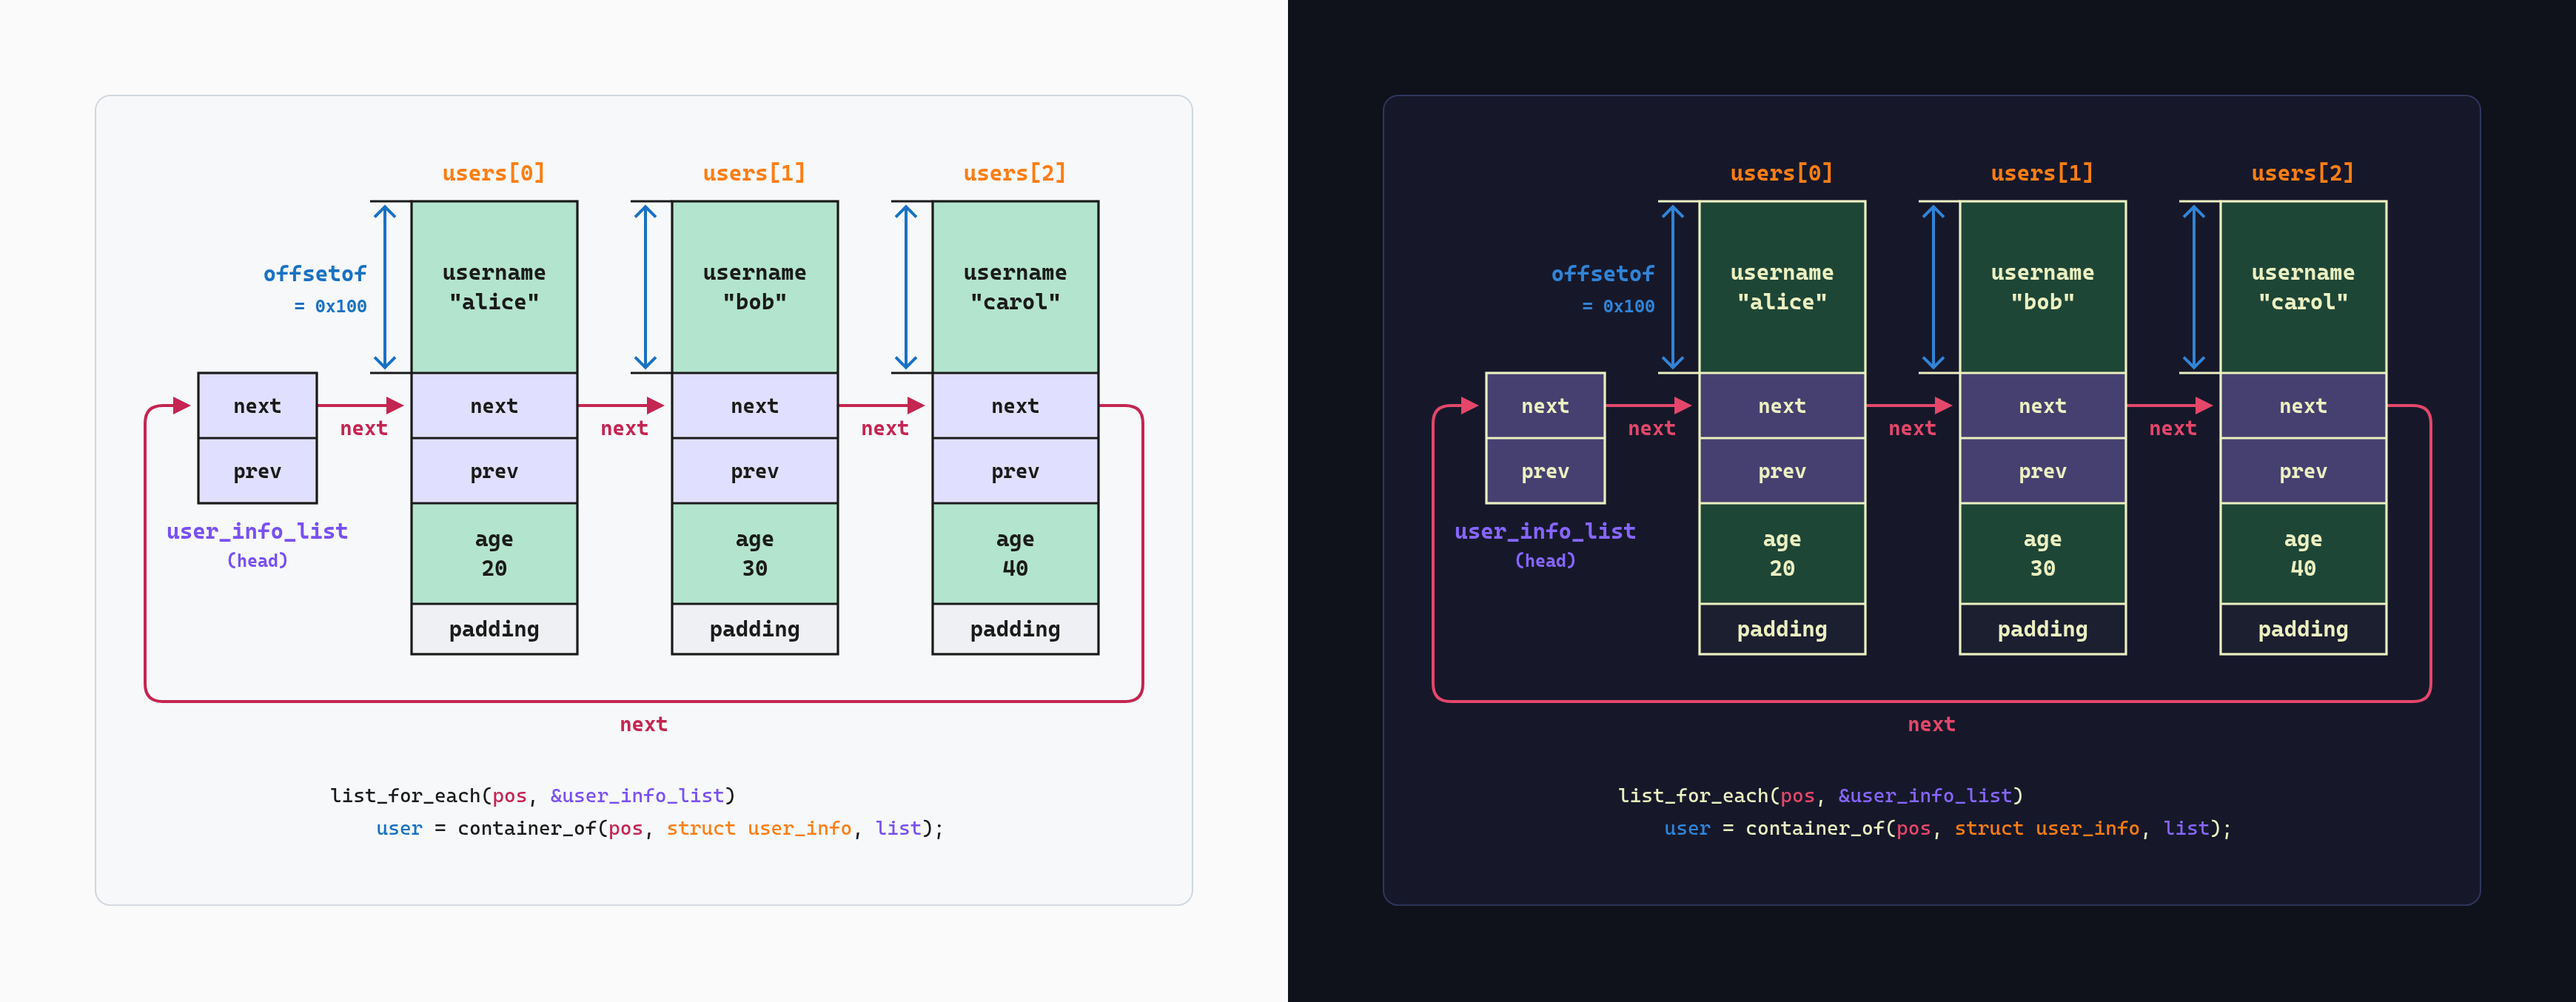
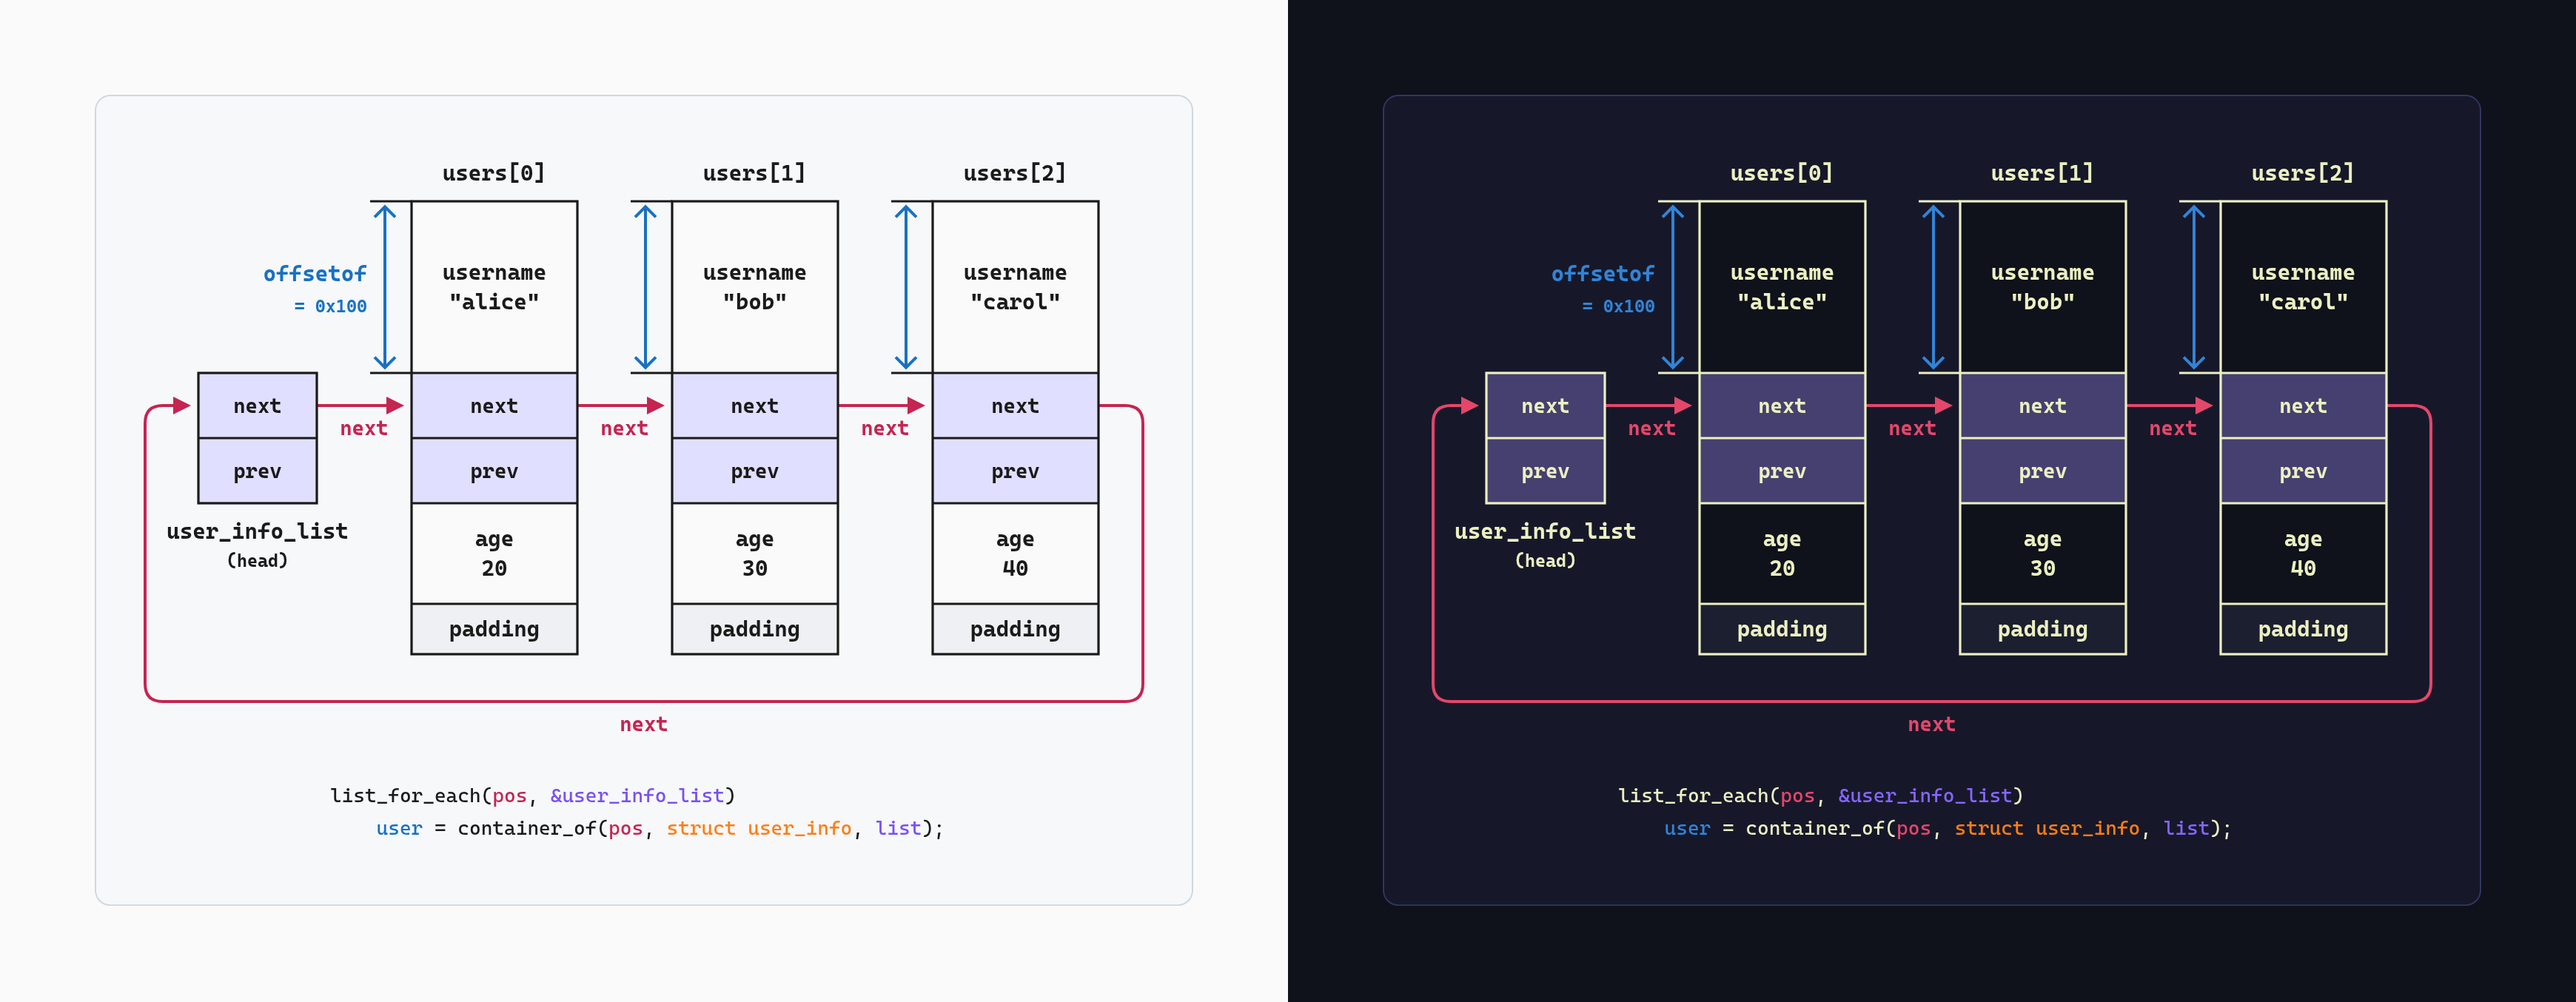
feat: leave struct-chain members unfilled and name the head in ink
Only the link cells, the forward arrows and the offsetof dimension keep
their tones. Other members stay on the background, padding keeps the gap
fill, and the head's name no longer takes the link tone. The example
drops its node tone to match.

diff --git a/src/struct-chain.ts b/src/struct-chain.ts
@@ -203,7 +203,7 @@ export function layout(spec: StructChain, profile: Profile = PROFILES.blog): Sce
     const left = sx(left0), center = left + box / 2;
     rows.forEach((row, i) => {
       if (row.kind === 'link') cellsAt(left, box);
-      else shapes.push({ kind: 'rect', x: left, y: tops[i], w: box, h: heights[i], fill: row.kind === 'pad' ? 'diagram-gap' : 'diagram-area' });
+      else shapes.push({ kind: 'rect', x: left, y: tops[i], w: box, h: heights[i], fill: row.kind === 'pad' ? 'diagram-gap' : 'bg-base' });
     });
     tops.slice(1).forEach((top) => line(left, top, left + box, top));
     shapes.push({ kind: 'outline', x: left, y: TOP, w: box, h: round(bottom - TOP), stroke: ink });
@@ -233,12 +233,12 @@ export function layout(spec: StructChain, profile: Profile = PROFILES.blog): Sce
 
   let after = bottom;
   if (head) {
-    const hx = sx(headX), mark = paint(tones.link, ink);
+    const hx = sx(headX);
     cellsAt(hx, headW);
     shapes.push({ kind: 'outline', x: hx, y: linkTop, w: headW, h: cells.length * profile.cell, stroke: ink });
     cellText(hx + headW / 2);
-    text(hx + headW / 2, linkBottom + 24, head.name, SIZE, true, 'middle', mark);
-    if (head.sub) text(hx + headW / 2, linkBottom + 43, head.sub, profile.sub, false, 'middle', mark);
+    text(hx + headW / 2, linkBottom + 24, head.name, SIZE, true, 'middle', ink);
+    if (head.sub) text(hx + headW / 2, linkBottom + 43, head.sub, profile.sub, false, 'middle', ink);
     arrow(round(hx + headW), sx(xs[0]));
     const l = sx(MARGIN), r = sx(lastRight + WRAP), start = sx(lastRight);
     const yb = round(Math.max(bottom + LOOP, linkBottom + (head.sub ? 43 : 24) + 24));

diff --git a/forms/struct-chain/prompt.md b/forms/struct-chain/prompt.md
@@ -13,7 +13,7 @@ Write the chain below as one JSON object. The tool computes the boxes, the offse
 - `nodes`: the structures in list order, each `{"name": "users[0]", "values": {"username": "\"alice\""}}`. `values` prints a value under a member's name.
 - Optional:
   - `head`: `{"name": "user_info_list", "sub": "(head)"}`, a bare link drawn on the left with its name under it. A head makes the chain a ring: the head points to the first node and the last node points back to the head. The head has no box around it and no `offsetof`, as `container_of` never applies to it.
-  - `tones`: colors by role, `{"node": ..., "link": ..., "walk": ..., "offset": ...}`, for the node names, the link cells and the head, the forward arrows, and the `offsetof` dimension. A tone is `red`, `orange`, `blue` or `purple`. A toned link fills its cells with the tone's light wash and names the head in the tone. Without a tone the link cells take the area fill, and every other role takes the ink.
+  - `tones`: colors by role, `{"node": ..., "link": ..., "walk": ..., "offset": ...}`, for the node names, the link cells and the head, the forward arrows, and the `offsetof` dimension. A tone is `red`, `orange`, `blue` or `purple`. A toned link fills its cells with the tone's light wash; without a tone they take the area fill. Every other role takes the ink, the head's name included, and the other members stay unfilled except padding, which takes the gap fill.
   - `code`: lines of runs under the chain, such as the loop that walks it. The lines share a left edge, so indentation shows. A run is `"text"` or `["text", tone]`.
 - The canvas is as wide as the other forms. A head and three nodes fit; the tool says when a chain does not.
 - Use one language in the whole diagram.
